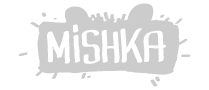
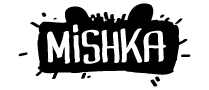
Добавила состояния логотипам клиентов

diff --git a/catalog.html b/catalog.html
@@ -145,32 +145,56 @@
     </section>
     </div>
     <section class="contacts">
-      <img src="img/map.jpg" width="1440" height="416" alt="Карта">
-      <h2>NЁRDS DESIGN STUDIO</h2>
-      <p>наб. Реки Карповки,<br>
-        5 лит П, Санкт-Петербург</p>
-      <p>+7 800 555-86-26</p>
-      <button class="button button-pink" type="button">Напишите нам</button>
+      <div class="map">
+        <img src="img/map.jpg" width="1440" height="416" alt="Карта">
+      </div>
+      <div class="map-marker">
+        <img src="img/map-marker.png" width="231" height="190">
+      </div>
+      <div class="address">
+        <h2>NЁRDS DESIGN STUDIO</h2>
+        <p>наб. Реки Карповки,<br>
+          5 лит П, Санкт-Петербург</p>
+        <p>+7 800 555-86-28</p>
+        <button class="button button-pink" type="button">Напишите нам</button>
+      </div>
+      </section>
+    </main>
+    <footer class="main-footer">
+      <div class="container">
+      <section class="footer-discount">
+      <h2>Давайте дружить, это выгодно!</h2>
+      <p>Скидка 10% для друзей из социальных сетей.</p>
     </section>
-  </main>
-  <footer class="main-footer">
-    <div class="container">
-  <section class="footer-social">
-  <h2>Давайте дружить, это выгодно!</h2>
-  <p>Скидка 10% для друзей из социальных сетей</p>
-  <ul>
-    <li>
-      <a class="social-button" href="">Вконтакте</a>
-    </li>
-    <li>
-      <a class="social-button" href="">Фейсбук</a>
-    </li>
-    <li>
-      <a class="social-button" href="">Инстаграм</a>
-    </li>
-  </ul>
-  </section>
-  </div>
-  </footer>
+      <section class="footer-social">
+      <ul>
+        <li>
+          <a class="social-button" href="">
+            <span class="visually-hidden">Вконтакте</span>
+            <svg width="27" height="15" viewBox="0 0 27 15" fill="none" xmlns="http://www.w3.org/2000/svg">
+              <path d="M16.138 11.51C17.094 11.201 18.318 13.55 19.621 14.449C20.599 15.13 21.348 14.983 21.348 14.983L24.821 14.933C24.821 14.933 26.636 14.821 25.778 13.379C25.707 13.259 25.275 12.31 23.193 10.357C21.016 8.31404 21.311 8.64504 23.932 5.11304C25.529 2.96004 26.168 1.64504 25.968 1.08504C25.776 0.546037 24.603 0.686037 24.603 0.686037L20.69 0.713037C20.309 0.714037 19.986 0.832037 19.839 1.22804C19.836 1.23204 19.218 2.89404 18.394 4.30704C16.653 7.29604 15.958 7.45504 15.67 7.26804C15.009 6.83504 15.176 5.53104 15.176 4.60404C15.176 1.70704 15.608 0.499037 14.33 0.187037C13.903 0.0830374 13.591 0.0150374 12.502 0.00503741C11.11 -0.0159626 9.92797 0.00503743 9.25797 0.334037C8.81297 0.557037 8.47197 1.04604 8.67897 1.07404C8.93897 1.10904 9.52197 1.23404 9.83397 1.66004C10.235 2.21204 10.223 3.44904 10.223 3.44904C10.223 3.44904 10.452 6.86004 9.68297 7.28304C9.15497 7.57304 8.43297 6.98104 6.87997 4.26704C6.08697 2.87904 5.48797 1.34504 5.48797 1.34504C5.48797 1.34504 5.37197 1.06004 5.16197 0.904037C4.91197 0.719037 4.56197 0.660037 4.56197 0.660037L0.84797 0.684037C0.84797 0.684037 0.28997 0.700037 0.0849697 0.946037C-0.0970303 1.16404 0.0699697 1.61404 0.0699697 1.61404C0.0699697 1.61404 2.97897 8.49504 6.27297 11.961C9.29297 15.143 12.725 14.932 12.725 14.932H14.28C14.28 14.932 14.749 14.878 14.989 14.62C15.213 14.38 15.203 13.929 15.203 13.929C15.203 13.929 15.172 11.82 16.138 11.51Z" fill="white"/>
+              </svg>
+          </a>
+        </li>
+        <li>
+          <a class="social-button" href="">
+            <span class="visually-hidden">Фейсбук</span>
+            <svg width="12" height="22" viewBox="0 0 12 22" fill="none" xmlns="http://www.w3.org/2000/svg">
+              <path d="M12 4V0H8C5.79086 0 4 1.79086 4 4V8H0V12H4V22H8V12H12V8H8V4H12Z" fill="white"/>
+              </svg>
+          </a>
+        </li>
+        <li>
+         <a class="social-button" href="">
+            <span class="visually-hidden">Инстаграм</span>
+            <svg width="21" height="21" viewBox="0 0 21 21" fill="none" xmlns="http://www.w3.org/2000/svg">
+              <path fill-rule="evenodd" clip-rule="evenodd" d="M3 0H18C19.65 0 21 1.35 21 3V18C21 19.65 19.65 21 18 21H3C1.35 21 0 19.65 0 18V3C0 1.35 1.35 0 3 0ZM14 10.5C14 8.57 12.43 7 10.5 7C8.57 7 7 8.57 7 10.5C7 12.43 8.57 14 10.5 14C12.43 14 14 12.43 14 10.5ZM3 18V9H4.181C4.0626 9.49127 4.00186 9.99467 4 10.5C4 14.0899 6.91015 17 10.5 17C14.0899 17 17 14.0899 17 10.5C16.9986 9.99464 16.9379 9.49118 16.819 9H18V18H3ZM14 7H18V3H14V7Z" fill="white"/>
+              </svg>
+          </a>
+        </li>
+      </ul>
+      </section>
+      </div>
+    </footer>
 </body>
 </html>

diff --git a/css/style.css b/css/style.css
@@ -547,6 +547,18 @@ body {
   padding-top: 62px;
 }
 
+.clients a {
+  opacity: 20%;
+}
+
+.clients a:hover {
+  opacity: 100%;
+}
+
+.clients a:focus {
+  opacity: 10%;
+}
+
 .contacts {
   display: grid;
   grid-template-columns: 1fr 1fr 1fr;
@@ -741,6 +753,18 @@ body {
   text-transform: uppercase;
   text-align: left;
   list-style: none;
+}
+
+.sort-item li {
+  position: relative;
+}
+
+.sort-item li::afetr {
+  content: "838383";
+  position: absolute;
+  width: 8px;
+  height: 8px;
+  background-color: #000000;
 }
 
 .pattern-list {
